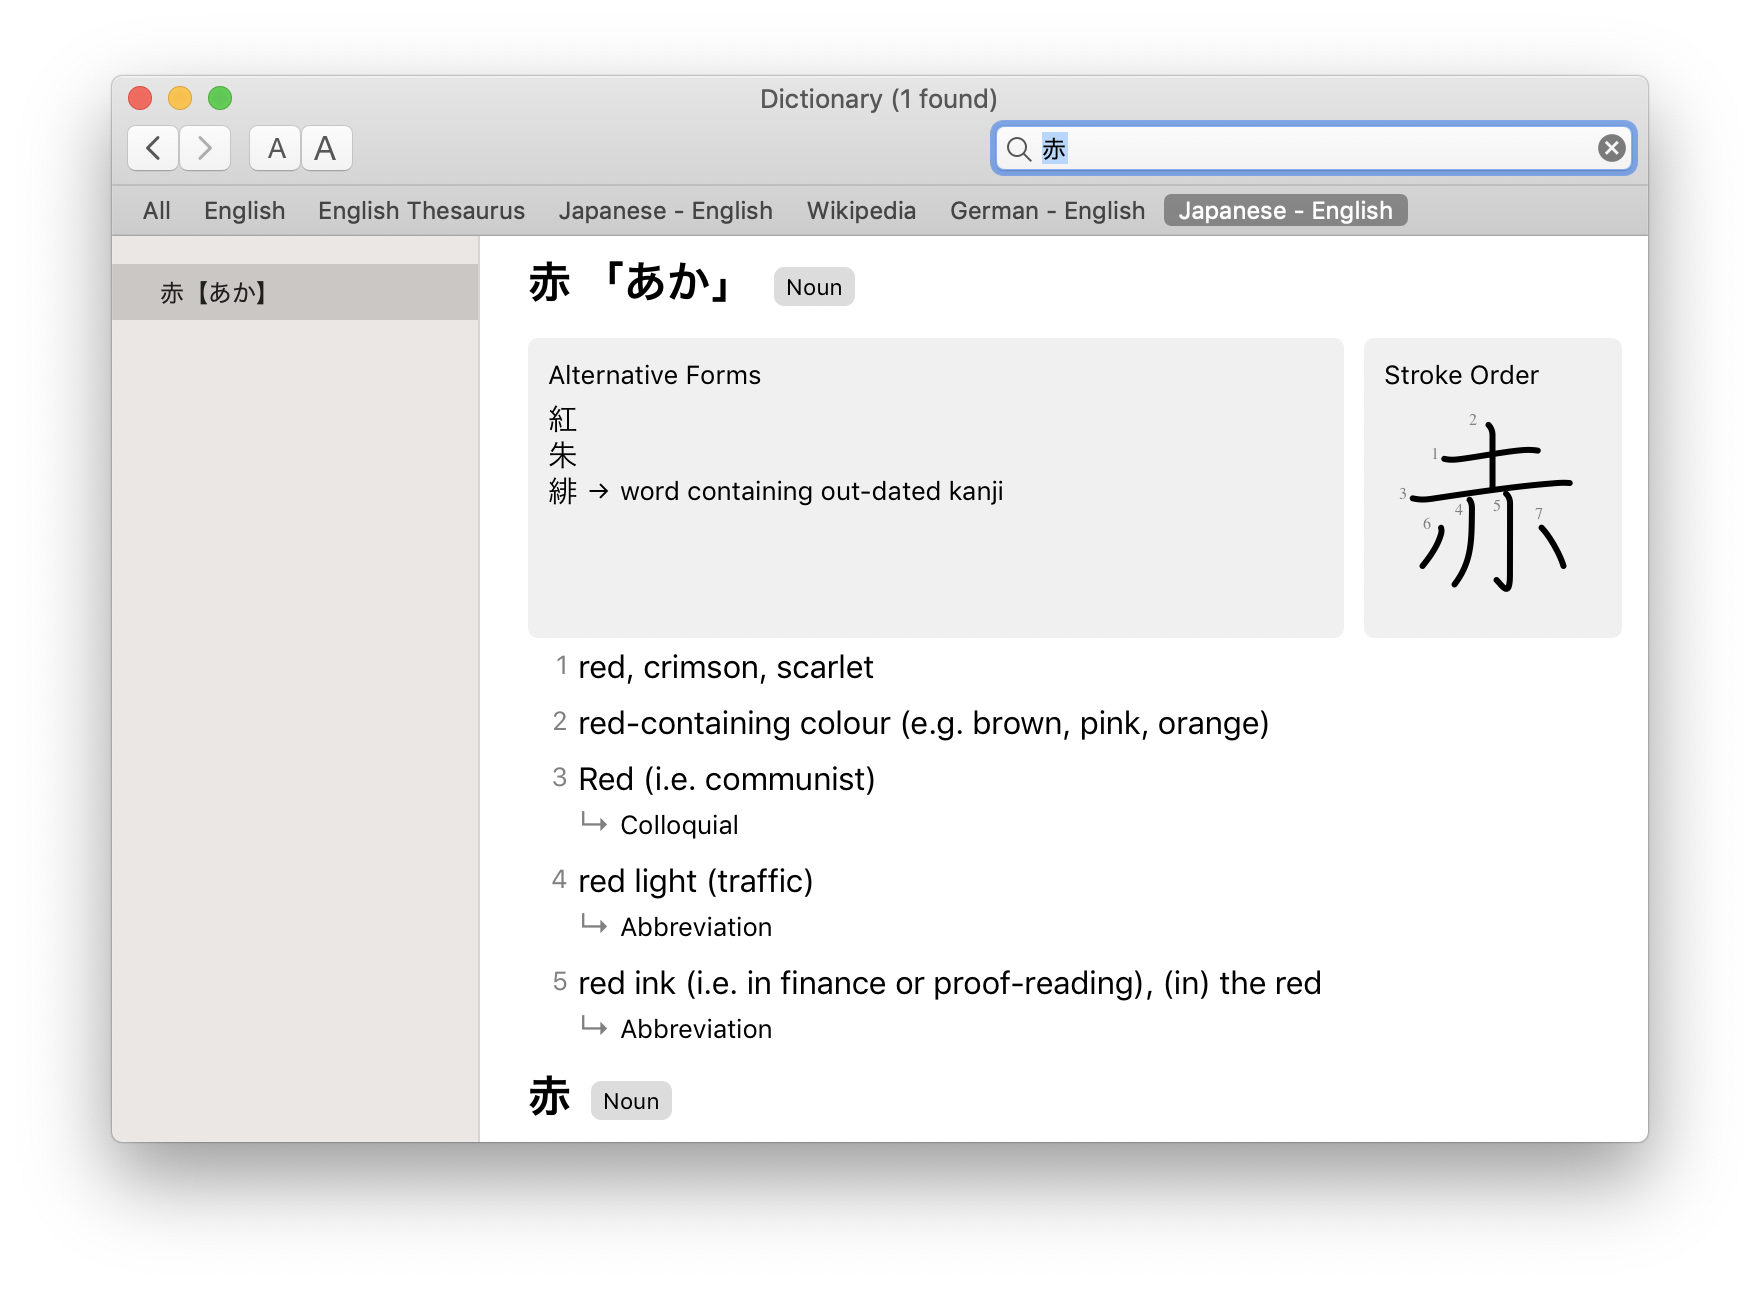
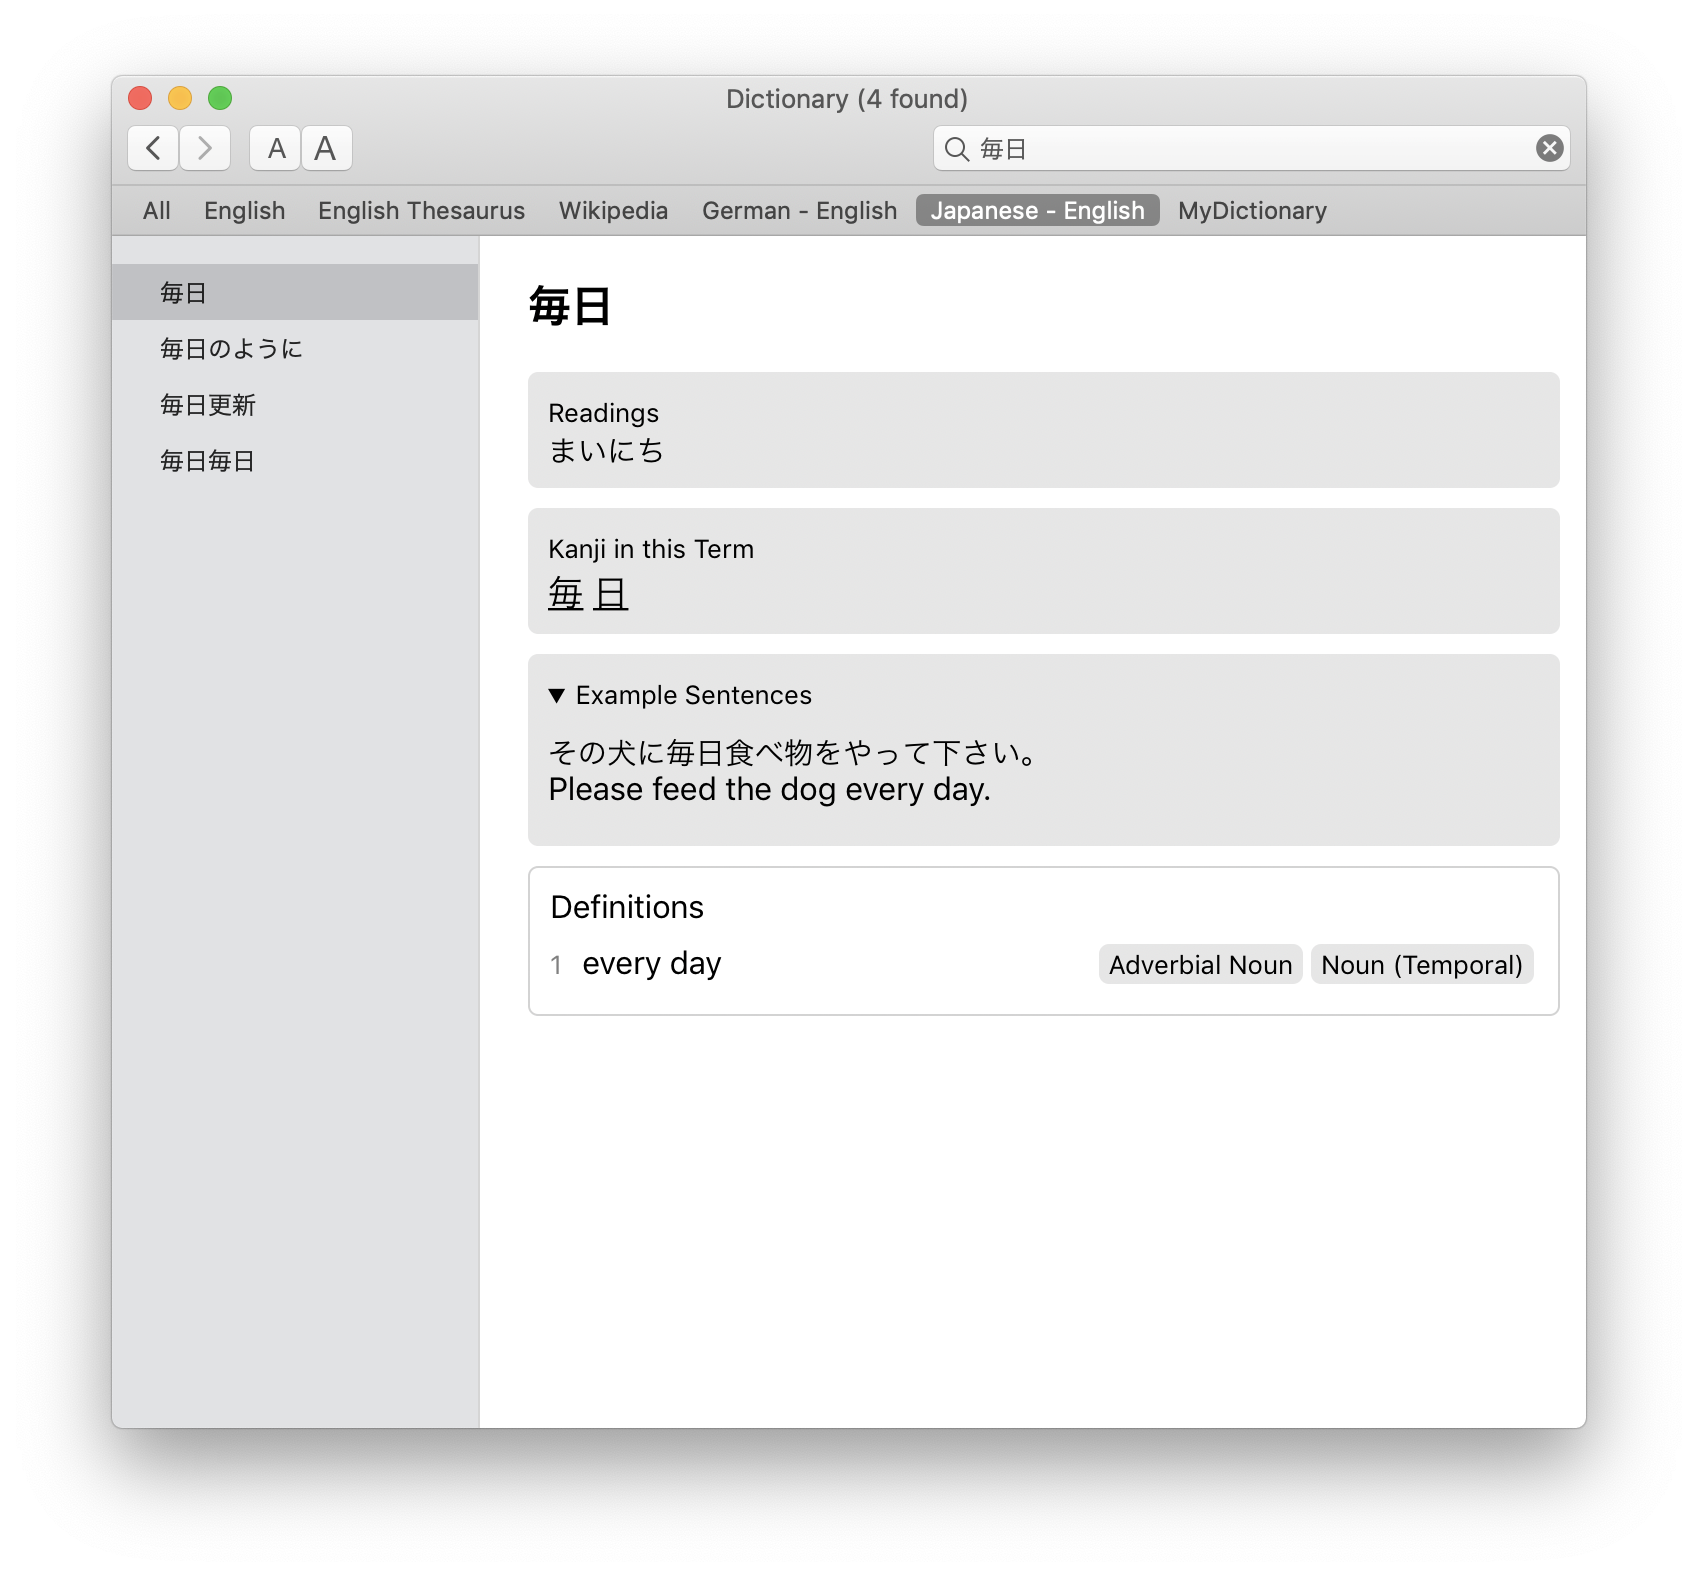
Update readme

Changed region(s): [[0.0624, 0.031, 0.9364, 0.9302], [0.8115, 0.3411, 0.9052, 0.4651]]

diff --git a/README.md b/README.md
@@ -1,5 +1,5 @@
-# JMdict Japanese Dictionary for MacOS
-A Japanese -> English dictionary for the Dictionary app in MacOS based off JMdict
+# Japanese Dictionary for MacOS
+A Japanese -> English dictionary for the Dictionary app in MacOS based off JMdict, Kanjidic2 and KanjiVG
 
 ![](/screenshots/a.png)
 ![](/screenshots/b.png)
@@ -13,4 +13,18 @@ These files are the property of the
 Research and Development Group</a>, and are used in
 conformance with the Group's 
 <a href="http://www.edrdg.org/edrdg/licence.html">licence</a>.
+</p>
+<p>
+The example sentences in this dictionary are provided by 
+<a href="https://tatoeba.org/eng/downloads">Tatoeba.org</a>
+under the 
+<a href="https://creativecommons.org/licenses/by/2.0/fr/">Creative Common Attribution 2.0 France</a>
+(CC BY 2.0 FR) license.
+</p>
+<p>
+The kanji samples in this dictionary are provided by
+<a href="https://kanjivg.tagaini.net/">KanjiVG</a>
+under the
+<a href="https://creativecommons.org/licenses/by-sa/3.0/">Creative Common Attribution-ShareAlike 3.0 Unported</a>
+(CC BY-SA 3.0) license and are copyright © 2009-2018 Ulrich Apel.
 </p>
